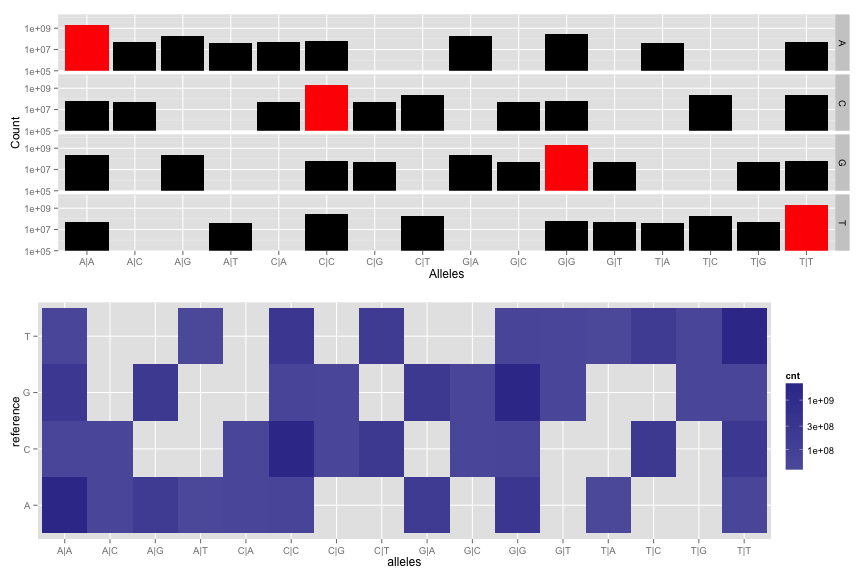
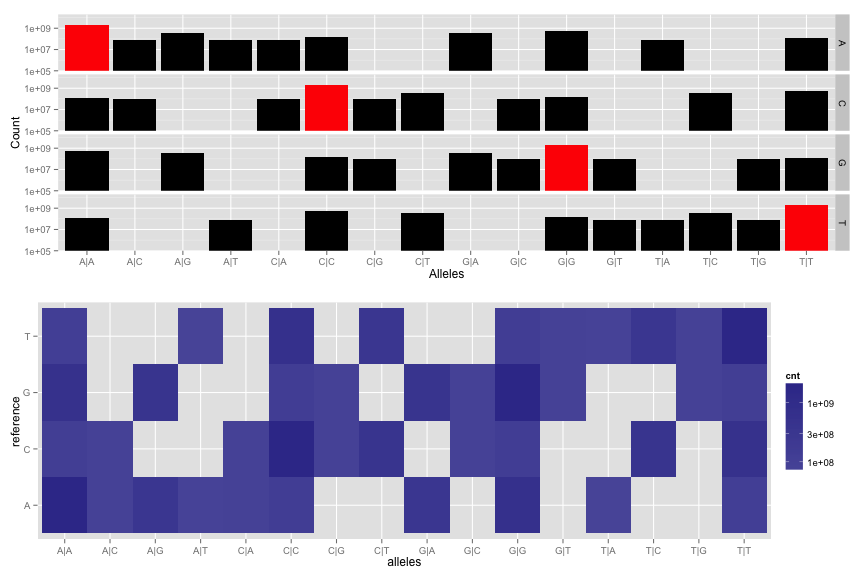
Updated exploring-the-variant-data story per schema changes.
Note that QUAL is not in the table, so that query and plot is echo-ed but not evaluated for now.

diff --git a/1000genomes/data-stories/exploring-the-variant-data/README.md b/1000genomes/data-stories/exploring-the-variant-data/README.md
@@ -16,7 +16,6 @@
 
 
 
-
 Basic Plots of 1k Genome Data
 =============================
 
@@ -25,21 +24,19 @@ Min/Max Chromosomal Positions of Variants
 
 ```
 SELECT
-   INTEGER(contig) AS chromosome,
-   MIN(position) AS min,
-   MAX(position) AS max
+   INTEGER(contig_name) AS chromosome,
+   MIN(start_pos) AS min,
+   MAX(start_pos) AS max
  FROM
-   [google.com:biggene:1000genomes.variants1kG]
+   [google.com:biggene:1000genomes.phase1_variants]
  OMIT RECORD IF
-   contig IN ("X", "Y")
+   contig_name IN ("X", "Y")
  GROUP BY
    chromosome
 ```
-
 <img src="figure/unnamed-chunk-3.png" title="plot of chunk unnamed-chunk-3" alt="plot of chunk unnamed-chunk-3" style="display: block; margin: auto;" />
-
  * A basic sanity check
- 
+
  * Chromosomes 13,14,15,21,22 have abnormally high min positions.
  * Chromosome 7 has low min position.
  * Hard to sequence regions?
@@ -49,20 +46,18 @@ Frequency of Variant Types Per Chromosome
 
 ```
 SELECT
-  INTEGER(contig) AS chromosome,
+  INTEGER(contig_name) AS chromosome,
   vt AS variant_type,
   COUNT(1) AS cnt
  FROM
-   [google.com:biggene:1000genomes.variants1kG]
+   [google.com:biggene:1000genomes.phase1_variants]
  OMIT RECORD IF
-   contig IN ("X", "Y")
+   contig_name IN ("X", "Y")
  GROUP BY
    chromosome,
    variant_type
 ```
-
 <img src="figure/unnamed-chunk-5.png" title="plot of chunk unnamed-chunk-5" alt="plot of chunk unnamed-chunk-5" style="display: block; margin: auto;" />
-
  * Mostly SNPs.
  * Very few structural variants.
  * Note suppressed zero.
@@ -74,34 +69,40 @@ Types of SNP pairs (looks at both alleles)
 SELECT
   reference_bases AS reference,
   CONCAT(
-    IF(genotype.first_allele=0,
+    IF(first_allele=0,
        reference_bases,
        alternate_bases),
     "|",
-    IF(genotype.second_allele=0,
+    IF(second_allele=0,
        reference_bases,
        alternate_bases)
     ) AS alleles,
   COUNT(1) AS cnt,
 FROM
-  FLATTEN([google.com:biggene:1000genomes.variants1kG], genotype)
+     FLATTEN((SELECT 
+         contig_name,
+         reference_bases,
+         alternate_bases,
+         vt,
+         NTH(1, call.genotype) WITHIN call AS first_allele,
+         NTH(2, call.genotype) WITHIN call AS second_allele
+       FROM [google.com:biggene:1000genomes.phase1_variants])
+     , call)
 OMIT RECORD IF
-     contig IN ("X", "Y")
-  OR genotype.first_allele < 0
-  OR genotype.second_allele < 0
+     contig_name IN ("X", "Y")
+  OR first_allele < 0
+  OR second_allele < 0
   OR vt != "SNP"
 GROUP BY
   reference,
   alleles
 ```
-
 <img src="figure/unnamed-chunk-7.png" title="plot of chunk unnamed-chunk-7" alt="plot of chunk unnamed-chunk-7" style="display: block; margin: auto;" />
-
  * Total count is #genomes * #SNPs.
  * Same data - two views
- 
+
  * Red bars denote no mutation - both alleles equal reference.
- 
+
  * Why are A -> C,C and A-> G,G likely, but not A -> C,G or A -> G,C?
 
  * Note that A & T rows are reverses of each other, as are C & G rows.
@@ -124,50 +125,48 @@ SELECT
 END AS length,
   COUNT(1) AS cnt
 FROM
-  FLATTEN([google.com:biggene:1000genomes.variants1kG], genotype)
+     FLATTEN((SELECT 
+         contig_name,
+         reference_bases,
+         alternate_bases,
+         vt,
+         NTH(1, call.genotype) WITHIN call AS first_allele,
+         NTH(2, call.genotype) WITHIN call AS second_allele
+       FROM [google.com:biggene:1000genomes.phase1_variants])
+     , call)
 WHERE
-      genotype.first_allele =
+      first_allele =
       POSITION(alternate_bases)
   AND LENGTH(alternate_bases) -
       LENGTH(reference_bases) != 0
 OMIT RECORD IF
-      contig IN ("X", "Y")
+      contig_name IN ("X", "Y")
   AND vt != "INDEL"
 GROUP BY
   length
 ```
-
 <img src="figure/unnamed-chunk-9.png" title="plot of chunk unnamed-chunk-9" alt="plot of chunk unnamed-chunk-9" style="display: block; margin: auto;" />
-
  * +/-51 are over/under flow bins
  * -> Large tail of deletions
- 
+
  * Positive length = Insertion
  * Negative length = Deletion
- 
+
  * Drops off quickly.
 
 Quality score of calls (at least, of INDELs)
 --------------------------------------------
 
-```
-SELECT
-  vt AS variant_type,
-  quality,
-  COUNT(1) AS cnt
-FROM
-  [google.com:biggene:1000genomes.variants1kG]
-OMIT RECORD IF
-  contig IN ("X", "Y")
-GROUP BY
-  variant_type,
-  quality
+```r
+# TODO: get this working again when the QUAL column is restored to the table.
+plots <- MakeQualityPlot()
 ```
 
-<img src="figure/unnamed-chunk-11.png" title="plot of chunk unnamed-chunk-11" alt="plot of chunk unnamed-chunk-11" style="display: block; margin: auto;" />
-
+```r
+CreateGriddedPlot(plots)
+```
 From the 1k genome docs:
-> phred-scaled quality score for the assertion made in ALT. i.e. -10log_10 prob(call in ALT is wrong). If ALT is ”.” (no variant) then this is -10log_10 p(variant), and if ALT is not ”.” this is -10log_10 p(no variant). High QUAL scores indicate high confidence calls. 
+> phred-scaled quality score for the assertion made in ALT. i.e. -10log_10 prob(call in ALT is wrong). If ALT is ”.” (no variant) then this is -10log_10 p(variant), and if ALT is not ”.” this is -10log_10 p(no variant). High QUAL scores indicate high confidence calls.
 
 From Broad Institute:
 > The Phred scaled probability that a REF/ALT polymorphism exists at this site given sequencing data. Because the Phred scale is -10 * log(1-p), a value of 10 indicates a 1 in 10 chance of error, while a 100 indicates a 1 in 10^10 chance. These values can grow very large when a large amount of NGS data is used for variant calling.
@@ -182,33 +181,40 @@ SELECT
   COUNT(1) AS cnt
 FROM (
   SELECT
-    vt AS variant_type,
-    ROUND(100 * IF(genotype.gl > -0.5, genotype.gl,
+    variant_type,
+    ROUND(100 * IF(gl > -0.5, gl,
           -0.5)) AS likelihood,
   FROM
-    FLATTEN([google.com:biggene:1000genomes.variants1kG], genotype)
+     FLATTEN((SELECT 
+         contig_name,
+         vt AS variant_type,
+         call.callset_name AS genome,
+         call.phaseset AS phaseset,
+         call.genotype_likelihood AS gl,
+         NTH(1, call.genotype) WITHIN call AS first_allele,
+         NTH(2, call.genotype) WITHIN call AS second_allele
+       FROM [google.com:biggene:1000genomes.phase1_variants])
+     , call)
   WHERE
-        (genotype.first_allele <= genotype.second_allele
-          AND POSITION(genotype.gl) = 1 +
-          (genotype.second_allele *
-            (genotype.second_allele + 1) / 2) +
-          genotype.first_allele)
-        OR (genotype.second_allele < genotype.first_allele
-          AND POSITION(genotype.gl) = 1 +
-          (genotype.first_allele *
-            (genotype.first_allele + 1) / 2) +
-          genotype.second_allele)
+        (first_allele <= second_allele
+          AND POSITION(gl) = 1 +
+          (second_allele *
+            (second_allele + 1) / 2) +
+          first_allele)
+        OR (second_allele < first_allele
+          AND POSITION(gl) = 1 +
+          (first_allele *
+            (first_allele + 1) / 2) +
+          second_allele)
   OMIT RECORD IF 
-       contig in ("X", "Y")
-    OR genotype.phased = false
+       contig_name in ("X", "Y")
+    OR phaseset IS NULL
 )
 GROUP BY
   variant_type,
   likelihood
 ```
-
 <img src="figure/unnamed-chunk-13.png" title="plot of chunk unnamed-chunk-13" alt="plot of chunk unnamed-chunk-13" style="display: block; margin: auto;" />
-
 This is the likelihood for the most likely set of alleles for each variant.
 
 SNP distribution in Genomes
@@ -225,19 +231,25 @@ SELECT
   SUM(variant_info.double) AS cnt2
 FROM
   (SELECT
-     genotype.sample_id AS genome,
-     IF((genotype.first_allele > 0 AND
-         genotype.second_allele = 0) OR
-        (genotype.first_allele = 0 AND
-         genotype.second_allele > 0), 1, 0)
+     genome,
+     IF((first_allele > 0 AND
+         second_allele = 0) OR
+        (first_allele = 0 AND
+         second_allele > 0), 1, 0)
        AS single,
-     IF(genotype.first_allele > 0 AND
-        genotype.second_allele > 0, 1, 0)
+     IF(first_allele > 0 AND
+        second_allele > 0, 1, 0)
        AS double,
    FROM
-     FLATTEN([google.com:biggene:1000genomes.variants1kG], genotype)
+     FLATTEN((SELECT 
+         contig_name,
+         call.callset_name AS genome,
+         NTH(1, call.genotype) WITHIN call AS first_allele,
+         NTH(2, call.genotype) WITHIN call AS second_allele
+       FROM [google.com:biggene:1000genomes.phase1_variants])
+     , call)
    OMIT RECORD IF
-     contig IN ("X", "Y")
+     contig_name IN ("X", "Y")
   ) AS variant_info
   JOIN
     [google.com:biggene:1000genomes.sample_info] AS sample_info
@@ -248,10 +260,8 @@ GROUP BY
   population,
   super_population
 ```
-
 First by Population:
 <img src="figure/unnamed-chunk-15.png" title="plot of chunk unnamed-chunk-15" alt="plot of chunk unnamed-chunk-15" style="display: block; margin: auto;" />
-
 Each point is a genome:
  * X coord denotes the #SNPs w/ 1 mutation
  * Y coord denotes the #SNPs w/ 2 mutations
@@ -260,4 +270,3 @@ Cluster correlate very well with ethnicity.
 
 Then by super population:
 <img src="figure/unnamed-chunk-16.png" title="plot of chunk unnamed-chunk-16" alt="plot of chunk unnamed-chunk-16" style="display: block; margin: auto;" />
-
